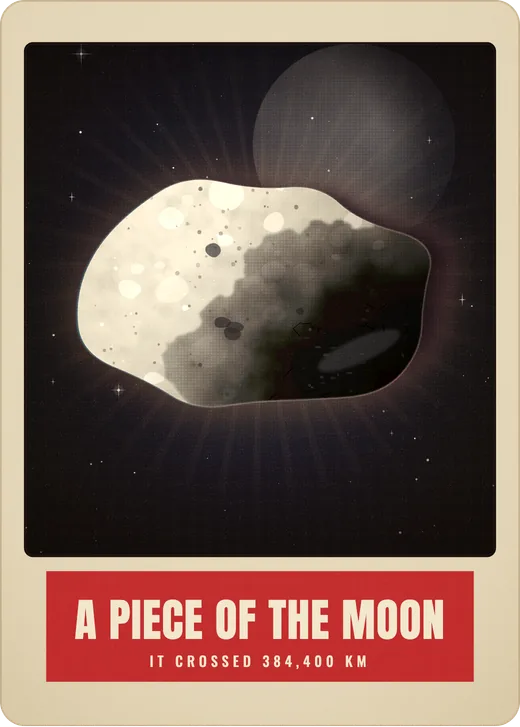
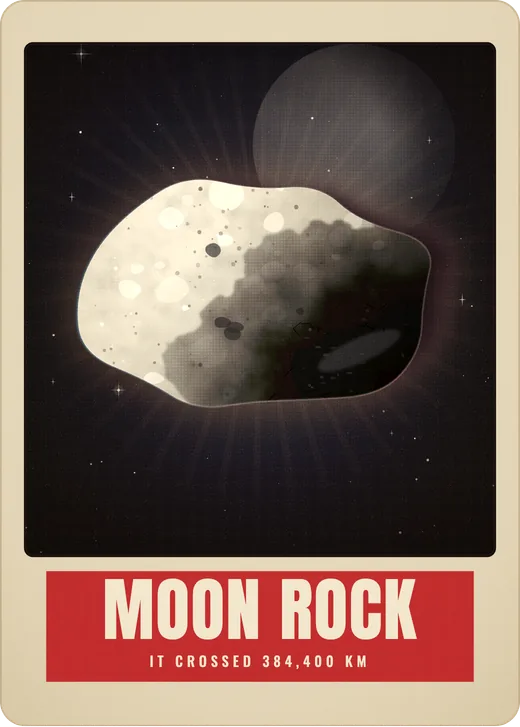
feat(stellar): rarity as a small bold square tag, minimal shorter tiles, guide from common to legendary; Canyon Diablo replaces Sikhote-Alin, the lunar card is Moon Rock
Claude-Session: https://claude.ai/code/session_015FA2dNkdeZuS3qBzySqakS

Changed region(s): [[0.1231, 0.7868, 0.8615, 0.8776]]

diff --git a/src/styles/stellar-pages.css b/src/styles/stellar-pages.css
@@ -305,33 +305,19 @@
 /* Off-screen tiles are not laid out or painted until they come near. */
 .sd-fl__grid > li { content-visibility: auto; contain-intrinsic-size: auto 330px; }
 
-/* A tile: the card lifted on a dark plate, lit from behind by its object's own light,
-   the rarity's metal on the edge; pointed at, it rises and its light comes up. */
+/* A tile: flat and quiet. The number and the rarity above the card, the name and price under it,
+   then one line of what it gives and how many are left. Only the rarity tag carries colour. */
 .sd-tile {
   --tile-glow: #ffd8bc;
-  position: relative; display: flex; flex-direction: column; height: 100%; padding: 14px 14px 16px;
-  border: 1px solid var(--sd-rule); border-radius: 18px; color: inherit; text-decoration: none; overflow: hidden;
-  background:
-    radial-gradient(90% 60% at 50% 30%, color-mix(in srgb, var(--tile-glow) 18%, transparent), transparent 70%),
-    linear-gradient(180deg, rgba(255, 255, 255, 0.035), rgba(255, 255, 255, 0.012) 60%, rgba(0, 0, 0, 0.12));
-  box-shadow: inset 0 1px 0 rgba(255, 246, 220, 0.06), 0 18px 40px -28px rgba(0, 0, 0, 0.9);
-  transition: border-color var(--sd-dur-base) var(--sd-ease), transform var(--sd-dur-base) var(--sd-ease), box-shadow var(--sd-dur-base) var(--sd-ease);
+  position: relative; display: flex; flex-direction: column; height: 100%; padding: 10px 10px 12px;
+  border: 1px solid var(--sd-rule); border-radius: 14px; color: inherit; text-decoration: none; overflow: hidden;
+  background: rgba(255, 255, 255, 0.022);
+  transition: border-color var(--sd-dur-base) var(--sd-ease), background-color var(--sd-dur-base) var(--sd-ease);
 }
-.sd-tile::before {
-  content: ''; position: absolute; inset: 0; pointer-events: none; opacity: 0;
-  background: radial-gradient(70% 55% at 50% 38%, color-mix(in srgb, var(--rarity) 22%, transparent), transparent 72%);
-  transition: opacity var(--sd-dur-slow) var(--sd-ease);
-}
-.sd-tile:hover, .sd-tile:focus-visible {
-  border-color: color-mix(in srgb, var(--rarity) 55%, var(--sd-rule-strong));
-  box-shadow: inset 0 1px 0 rgba(255, 246, 220, 0.1), 0 24px 50px -24px rgba(0, 0, 0, 0.95), 0 0 48px -18px color-mix(in srgb, var(--rarity) 60%, transparent);
-}
-.sd-tile:hover::before, .sd-tile:focus-visible::before { opacity: 1; }
-.sd-tile__stage { position: relative; display: block; padding: 6px 8% 14px; }
-.sd-tile .sd-thumb { transition: transform 500ms var(--sd-ease), translate 300ms var(--sd-ease), scale 300ms var(--sd-ease), box-shadow 300ms var(--sd-ease); }
-@media (hover: hover) {
-  .sd-tile:hover .sd-thumb { translate: 0 -8px; scale: 1.02; box-shadow: 0 0 0 1px color-mix(in srgb, var(--rarity) 45%, rgba(255, 255, 255, 0.1)), 0 30px 44px -18px rgba(0, 0, 0, 0.95), 0 0 40px -10px color-mix(in srgb, var(--rarity) 45%, transparent); }
-}
+.sd-tile:hover, .sd-tile:focus-visible { border-color: color-mix(in srgb, var(--rarity) 45%, var(--sd-rule-strong)); background: rgba(255, 255, 255, 0.04); }
+.sd-tile__stage { position: relative; display: block; padding: 0 5% 10px; }
+.sd-tile .sd-thumb { transition: translate 300ms var(--sd-ease), scale 300ms var(--sd-ease); }
+@media (hover: hover) { .sd-tile:hover .sd-thumb { translate: 0 -4px; } }
 .sd-tile:active .sd-thumb { scale: 0.97; transition-duration: 80ms; }
 .sd-tile__tag {
   position: absolute; top: -2px; left: 50%; z-index: 1; translate: -50% 0; display: inline-flex; align-items: center; gap: 6px;
@@ -339,29 +325,18 @@
   background: rgba(16, 16, 16, 0.9); color: var(--sd-accent-ink); font: 700 12px/1 var(--sd-mono); letter-spacing: 0.1em; text-transform: uppercase; white-space: nowrap;
 }
 .sd-tile__tag::before { content: ''; width: 5px; height: 5px; border-radius: 50%; background: currentColor; }
-.sd-tile__foot { position: relative; display: grid; grid-template-columns: minmax(0, 1fr) auto; align-items: baseline; gap: 6px 12px; margin-top: auto; padding: 10px 4px 0; border-top: 1px solid rgba(241, 230, 207, 0.08); }
-.sd-tile__name { overflow: hidden; text-overflow: ellipsis; white-space: nowrap; font: 500 15px/1.2 var(--sd-spaced); letter-spacing: 0.06em; text-transform: uppercase; }
-.sd-tile__price { font: 700 15px/1 var(--sd-mono); color: var(--sd-ink); font-variant-numeric: tabular-nums; }
-.sd-tile__sub { grid-column: 1 / -1; display: flex; align-items: center; gap: 8px; min-width: 0; overflow: hidden; white-space: nowrap; text-overflow: ellipsis; font-size: 12px; color: var(--sd-ink-3); }
-/* The number and the rarity, one quiet row above the card: the number in the ink's grey, the rarity a slim dark chip in its own colour. */
-.sd-tile__head { position: relative; z-index: 2; display: flex; align-items: center; justify-content: space-between; gap: 8px; margin: 0 2px 10px; pointer-events: none; }
-.sd-tile__num { font: 500 11px var(--sd-mono); letter-spacing: 0.16em; text-transform: uppercase; color: var(--sd-ink-3); }
-.sd-chip {
-  display: inline-flex; align-items: center; gap: 6px; margin-left: auto; padding: 5px 10px 5px 8px; border-radius: 999px;
-  font: 500 11.5px/1 var(--sd-spaced); letter-spacing: 0.14em; text-transform: uppercase; white-space: nowrap; color: var(--rarity);
-  background: linear-gradient(180deg, rgba(255, 246, 225, 0.06), rgba(0, 0, 0, 0.25)), rgba(14, 12, 10, 0.9);
-  border: 1px solid color-mix(in srgb, var(--rarity) 42%, transparent);
-  box-shadow: inset 0 1px 0 rgba(255, 246, 225, 0.08);
-}
-.sd-chip i { font-style: normal; font-size: 10px; line-height: 1; }
-.sd-tile[data-rarity='epic'] .sd-chip, .sd-tile[data-rarity='legendary'] .sd-chip { box-shadow: inset 0 1px 0 rgba(255, 246, 225, 0.1), 0 0 16px -6px color-mix(in srgb, var(--rarity) 80%, transparent); }
-.sd-tile[data-rarity='legendary'] .sd-chip {
-  color: #1a1206; border-color: transparent;
-  background: linear-gradient(180deg, #fbe4a2 0%, var(--rarity) 55%, #c9952f 100%);
-  box-shadow: inset 0 1px 0 rgba(255, 255, 255, 0.6), 0 0 18px -5px color-mix(in srgb, var(--rarity) 85%, transparent);
-}
-.sd-tile__perk { grid-column: 1 / -1; display: inline-flex; align-items: center; gap: 6px; min-width: 0; color: var(--rarity); font: 600 11px var(--sd-mono); letter-spacing: 0.12em; text-transform: uppercase; white-space: nowrap; }
-.sd-tile__perk em { padding: 2px 5px; border-radius: 4px; font: 600 9.5px/1.2 var(--sd-mono); font-style: normal; letter-spacing: 0.12em; color: var(--sd-ink-3); border: 1px solid var(--sd-rule-strong); }
+.sd-tile__head { position: relative; z-index: 2; display: flex; align-items: center; justify-content: space-between; gap: 8px; margin: 0 2px 8px; pointer-events: none; }
+.sd-tile__num { font: 500 10.5px var(--sd-mono); letter-spacing: 0.14em; text-transform: uppercase; color: var(--sd-ink-3); }
+/* The rarity: a small, bold, square-cornered tag filled with its colour. */
+.sd-rtag { display: inline-block; margin-left: auto; padding: 3px 6px 2px; border-radius: 3px; font: 700 10px/1.2 var(--sd-spaced); letter-spacing: 0.12em; text-transform: uppercase; white-space: nowrap; color: #140d08; background: var(--rarity); }
+.sd-tile__foot { position: relative; display: grid; grid-template-columns: minmax(0, 1fr) auto; align-items: baseline; gap: 4px 10px; margin-top: auto; padding: 0 2px; }
+.sd-tile__name { overflow: hidden; text-overflow: ellipsis; white-space: nowrap; font: 500 14px/1.2 var(--sd-spaced); letter-spacing: 0.06em; text-transform: uppercase; }
+.sd-tile__price { font: 700 14px/1 var(--sd-mono); color: var(--sd-ink); font-variant-numeric: tabular-nums; }
+.sd-tile__meta { grid-column: 1 / -1; display: flex; align-items: center; gap: 8px; min-width: 0; overflow: hidden; white-space: nowrap; }
+.sd-tile__perk { display: inline-flex; align-items: center; gap: 5px; flex: none; color: var(--rarity); font: 600 10.5px var(--sd-mono); letter-spacing: 0.1em; text-transform: uppercase; }
+.sd-tile__perk em { padding: 1px 4px; border-radius: 3px; font: 700 9px/1.2 var(--sd-mono); font-style: normal; letter-spacing: 0.1em; color: var(--sd-ink-3); border: 1px solid var(--sd-rule-strong); }
+.sd-tile__sub { display: flex; align-items: center; gap: 8px; min-width: 0; overflow: hidden; text-overflow: ellipsis; font-size: 11.5px; color: var(--sd-ink-3); }
+.sd-tile__sub::before { content: '·'; color: var(--sd-ink-4, var(--sd-ink-3)); }
 
 /* What each rarity gives, under the odds: the tier in its colour, the gift, one short line. */
 .sd-gives { list-style: none; margin: 0 0 18px; padding: 0; display: grid; gap: 10px; }
@@ -370,8 +345,7 @@
   border-radius: 12px; border: 1px solid color-mix(in srgb, var(--rarity) 26%, transparent);
   background: linear-gradient(100deg, color-mix(in srgb, var(--rarity) 10%, transparent), transparent 70%);
 }
-.sd-gives__tier { display: inline-flex; align-items: center; gap: 6px; font: 500 11px var(--sd-spaced); letter-spacing: 0.14em; text-transform: uppercase; color: var(--rarity); }
-.sd-gives__tier i { font-style: normal; font-size: 10px; }
+.sd-gives__tier { justify-self: start; padding: 3px 6px 2px; border-radius: 3px; font: 700 10px/1.2 var(--sd-spaced); letter-spacing: 0.12em; text-transform: uppercase; color: #140d08; background: var(--rarity); }
 .sd-gives__what { display: inline-flex; align-items: center; justify-content: flex-end; gap: 6px; font-weight: 600; font-size: 13.5px; color: var(--sd-ink); text-align: right; }
 .sd-gives__what em { padding: 2px 6px; border-radius: 4px; font: 600 9.5px/1.2 var(--sd-mono); font-style: normal; letter-spacing: 0.1em; text-transform: uppercase; color: var(--sd-ink-3); border: 1px solid var(--sd-rule-strong); white-space: nowrap; }
 .sd-gives__line { grid-column: 1 / -1; font-size: 12.5px; color: var(--sd-ink-3); }
@@ -383,36 +357,29 @@
   background: linear-gradient(120deg, color-mix(in srgb, var(--rarity) 14%, transparent), rgba(255, 255, 255, 0.02) 60%);
   box-shadow: 0 0 36px -18px color-mix(in srgb, var(--rarity) 70%, transparent);
 }
-.sd-perk__tier { display: inline-flex; align-items: center; gap: 6px; padding: 5px 10px 5px 8px; border-radius: 999px; font: 500 11.5px/1 var(--sd-spaced); letter-spacing: 0.14em; text-transform: uppercase; color: var(--rarity);
-  background: rgba(14, 12, 10, 0.9); border: 1px solid color-mix(in srgb, var(--rarity) 42%, transparent); }
-.sd-perk__tier i { font-style: normal; font-size: 10px; }
-.sd-perk[data-rarity='legendary'] .sd-perk__tier { color: #1a1206; border-color: transparent; background: linear-gradient(180deg, #fbe4a2 0%, var(--rarity) 55%, #c9952f 100%); }
+.sd-perk__tier { justify-self: start; padding: 4px 8px 3px; border-radius: 3px; font: 700 11px/1.2 var(--sd-spaced); letter-spacing: 0.12em; text-transform: uppercase; color: #140d08; background: var(--rarity); }
 .sd-perk__short { display: inline-flex; align-items: center; gap: 8px; font: 500 17px/1.1 var(--sd-spaced); letter-spacing: 0.08em; text-transform: uppercase; color: var(--rarity); }
 .sd-perk__short em { padding: 3px 7px; border-radius: 5px; font: 600 10px/1.2 var(--sd-mono); font-style: normal; letter-spacing: 0.1em; color: var(--sd-ink-2); border: 1px solid var(--sd-rule-strong); }
 .sd-perk__line { grid-column: 1 / -1; margin: 0; font-size: 14.5px; line-height: 1.5; color: var(--sd-ink-2, var(--sd-ink)); }
 
-/* Scarcity on the shelf: the hotter the card, the warmer its frame. Common
-   stays quiet; the edge, the price and (for legendary) a slow pass of foil
-   all read from --rarity, set once by data-rarity on the tile. */
-.sd-tile:not([data-rarity='common']) { border-color: var(--rarity-edge); }
+/* Scarcity on the shelf: the price of the scarcest takes the rarity's colour, and a legendary gets a slow pass of foil. */
 .sd-tile[data-rarity='epic'] .sd-tile__price, .sd-tile[data-rarity='legendary'] .sd-tile__price { color: var(--rarity); }
 /* The pass of foil is a sheet three tiles wide slid across, clipped a little outside the stage so the lifted card still shows. */
-.sd-tile[data-rarity='legendary'] .sd-tile__stage, .sd-tile[data-rarity='epic'] .sd-tile__stage { overflow: clip; overflow-clip-margin: 8px; }
-.sd-tile[data-rarity='legendary'] .sd-tile__stage::after, .sd-tile[data-rarity='epic'] .sd-tile__stage::after {
+.sd-tile[data-rarity='legendary'] .sd-tile__stage { overflow: clip; overflow-clip-margin: 8px; }
+.sd-tile[data-rarity='legendary'] .sd-tile__stage::after {
   content: ''; position: absolute; inset: 0 auto 0 0; width: 300%; pointer-events: none; mix-blend-mode: screen;
   background: linear-gradient(105deg, transparent 42%, color-mix(in srgb, var(--rarity) 26%, transparent) 50%, transparent 58%);
   translate: -86.67% 0;
 }
 @media (prefers-reduced-motion: no-preference) {
   li.is-view > .sd-tile[data-rarity='legendary'] .sd-tile__stage::after { animation: sd-foil-pass 9s var(--sd-ease-inout) infinite; will-change: translate; }
-  li.is-view > .sd-tile[data-rarity='epic'] .sd-tile__stage::after { animation: sd-foil-pass 13s var(--sd-ease-inout) 4s infinite; will-change: translate; }
 }
 @keyframes sd-foil-pass {
   0%, 72% { translate: -86.67% 0; }
   100% { translate: 20% 0; }
 }
 @media (max-width: 559px) {
-  .sd-tile { padding: 12px 12px 12px; }
+  .sd-tile { padding: 8px 8px 10px; }
   .sd-tile__name { font-size: 13px; }
   .sd-tile__price { font-size: 14px; }
 }

diff --git a/src/lib/stellar/perks.ts b/src/lib/stellar/perks.ts
@@ -33,8 +33,10 @@ export function votePower(designation: string, rarity: Rarity): number {
 }
 
 export type Perk = {
-  /** A few words, for a tile or a list: "30-min session". */
+  /** A few words, for a list or the card page: "30-min session". */
   short: string;
+  /** Fewer still, for a shelf tile: "Session". */
+  tile: string;
   /** What it is, in one sentence. */
   line: string;
   /** Not open yet: the telescope perks wait for Live Telescope V1, which is commissioning. */
@@ -44,22 +46,22 @@ export type Perk = {
 export function perkFor(designation: string, rarity: Rarity): Perk {
   switch (rarity) {
     case 'legendary':
-      return { short: 'Real specimen', line: 'Carries a real piece of the meteorite it shows, sent to its holder.', soon: false };
+      return { short: 'Real specimen', tile: 'Real specimen', line: 'Carries a real piece of the meteorite it shows, sent to its holder.', soon: false };
     case 'epic':
-      return { short: `${SESSION_MINUTES}-min session`, line: `Each edition is a ${SESSION_MINUTES}-minute session on Live Telescope V1.`, soon: true };
+      return { short: `${SESSION_MINUTES}-min session`, tile: 'Session', line: `Each edition is a ${SESSION_MINUTES}-minute session on Live Telescope V1.`, soon: true };
     case 'rare':
-      return { short: 'Visitor seat', line: 'Each edition enters the draw for a visitor’s seat at a live session.', soon: true };
+      return { short: 'Visitor seat', tile: 'Visitor seat', line: 'Each edition enters the draw for a visitor’s seat at a live session.', soon: true };
     default: {
       const v = votePower(designation, rarity);
-      return { short: `Vote ×${v}`, line: `Each edition adds ${v} to its holder’s vote on the night’s target.`, soon: false };
+      return { short: `Vote ×${v}`, tile: `Vote ×${v}`, line: `Each edition adds ${v} to its holder’s vote on the night’s target.`, soon: false };
     }
   }
 }
 
-/** What each tier gives, for the guide under the odds, scarcest first. */
+/** What each tier gives, for the guide under the odds, from common up to legendary. */
 export const TIER_PERKS: { rarity: Rarity; title: string; line: string; soon: boolean }[] = [
-  { rarity: 'legendary', title: 'Real meteorite', line: 'The stone itself, sent to you.', soon: false },
-  { rarity: 'epic', title: `${SESSION_MINUTES}-min session`, line: 'Your time on the telescope.', soon: true },
-  { rarity: 'rare', title: 'Visitor seat', line: 'A draw to watch a live session.', soon: true },
   { rarity: 'common', title: 'Nightly vote', line: 'Pick the night’s target, ×1 to ×3.', soon: false },
+  { rarity: 'rare', title: 'Visitor seat', line: 'A draw to watch a live session.', soon: true },
+  { rarity: 'epic', title: `${SESSION_MINUTES}-min session`, line: 'Your time on the telescope.', soon: true },
+  { rarity: 'legendary', title: 'Real meteorite', line: 'The stone itself, sent to you.', soon: false },
 ];

diff --git a/src/lib/stellar/poster.ts b/src/lib/stellar/poster.ts
@@ -44,7 +44,7 @@ const ROWS: Record<string, Row> = {
   PERSEIDS: ['PERSEIDS', 'Tears of St Lawrence', 'Lie back on a warm night and count them.', 'A hundred an hour', 'Dust from Comet Swift–Tuttle, burning at 59 km a second'],
   'FIRST-LIGHT': ['FIRST\nLIGHT', 'The shutter opens', 'Whatever the sky gives, you hold.', 'Frame number one', 'One night, one exposure, one image for every holder'],
   IMILAC: ['IMILAC', 'Heart of a broken world', 'Found in the driest desert on Earth, 1822.', 'Green crystal set in iron', 'As old as the Solar System'],
-  'LUNAR-FRAGMENT': ['A PIECE OF\nTHE MOON', 'Thrown across the dark', 'An impact up there. A landing down here.', 'It crossed 384,400 km', 'It left the Moon faster than 2.4 km a second'],
+  'LUNAR-FRAGMENT': ['MOON ROCK', 'Thrown across the dark', 'An impact up there. A landing down here.', 'It crossed 384,400 km', 'It left the Moon faster than 2.4 km a second'],
   TYCHO: ['TYCHO', 'The bright scar', 'One strike, and the Moon wore rays forever.', 'Eighty-five kilometres wide', 'Struck 108 million years ago, still the brightest mark'],
   SUN: ['THE SUN', 'The star we live beside', 'Its light takes eight minutes to reach you.', 'Halfway through its life', 'Four million tonnes of itself burned every second'],
   MERCURY: ['MERCURY', 'The scorched messenger', 'A year shorter than its own day.', 'The smallest planet', 'From 430 °C at noon to −180 °C by night'],
@@ -118,7 +118,7 @@ const ROWS: Record<string, Row> = {
   'DOUBLE-OPPOSITION': ['DOUBLE\nOPPOSITION', 'Two worlds, one week', 'Jupiter, then Mars, at their closest to Earth.', 'Eight days apart', 'The next pair is years away'],
   'SNOW-MOON-ECLIPSE': ['SNOW MOON\nECLIPSE', 'February’s full Moon', 'It slips into the faint edge of Earth’s shadow.', 'One limb goes dusky', 'Subtle: you have to look for it'],
   'GREAT-ECLIPSE': ['GREAT\nECLIPSE', 'The long shadow', 'Stars will come out at noon.', 'Over six minutes of dark', 'Its path runs from Spain to Arabia'],
-  'SIKHOTE-ALIN': ['SIKHOTE-ALIN', 'The great iron rain', 'In 1947 it fell in daylight, brighter than the Sun.', 'Witnessed as it fell', 'About 23 tonnes were gathered from the taiga'],
+  'CANYON-DIABLO': ['CANYON DIABLO', 'The crater maker', 'It hit Arizona and left a hole over a kilometre wide.', 'It dated the Earth', 'Its lead gave the age of the Earth: 4.55 billion years'],
   GIBEON: ['GIBEON', 'Crystal in the iron', 'No forge can make this pattern; only slow cooling can.', 'Crystals grown in space', 'Its pieces lie across a strewn field in Namibia'],
   'CAMPO-DEL-CIELO': ['CAMPO DEL CIELO', 'Field of the sky', 'Thousands of years ago, iron rained on the Chaco.', 'A shower of iron', 'Its largest pieces weigh around thirty tonnes'],
   MUONIONALUSTA: ['MUONIONALUSTA', 'The ancient iron', 'It lay under the ice through several ice ages.', 'Older than the Earth', 'Found in Swedish Lapland in 1906'],

diff --git a/src/lib/stellar/plate.ts b/src/lib/stellar/plate.ts
@@ -53,7 +53,7 @@ const STORY: Record<string, [string, string]> = {
   'DOUBLE-OPPOSITION': ['Opposition puts the Earth between a planet and the Sun.', 'Mars looks red, Jupiter cream-white.'],
   'SNOW-MOON-ECLIPSE': ['A penumbral eclipse: the Moon misses the dark core.', 'It needs no filter and no telescope.'],
   'GREAT-ECLIPSE': ['Along the path, birds roost and the air turns cold.', 'Its shadow races over the ground faster than sound.'],
-  'SIKHOTE-ALIN': ['It broke apart over the Russian Far East.', 'Its pieces still carry thumbprints from melting.'],
+  'CANYON-DIABLO': ['It struck about fifty thousand years ago.', 'Its lead was used to measure the age of the Earth.'],
   GIBEON: ['The Nama people made tools from its iron.', 'Etched with acid, it shows the Widmanstätten pattern.'],
   'CAMPO-DEL-CIELO': ['It fell four to five thousand years ago.', 'It left a field of small craters in Argentina.'],
   MUONIONALUSTA: ['It fell in northern Sweden about a million years ago.', 'Its crystals show it cooled inside a small world.'],
@@ -160,7 +160,7 @@ export function plateFor(designation: string): Plate | null {
 /** Each object's own light, for the glow a tile sits on. Where an object has none — a crater, a stone — the family's stands in. */
 const GLOW: Record<string, string> = {
   'FIRST-LIGHT': '#e8e2d4', IMILAC: '#d9b26f', 'LUNAR-FRAGMENT': '#c9d6ff',
-  'SIKHOTE-ALIN': '#e0a070', GIBEON: '#dfe6f0', 'CAMPO-DEL-CIELO': '#c8ccd4', MUONIONALUSTA: '#e8d6d0', ALLENDE: '#b9b2a6', TYCHO: '#bacbff', 'OLYMPUS-MONS': '#ff9a63',
+  'CANYON-DIABLO': '#c98a6a', GIBEON: '#dfe6f0', 'CAMPO-DEL-CIELO': '#c8ccd4', MUONIONALUSTA: '#e8d6d0', ALLENDE: '#b9b2a6', TYCHO: '#bacbff', 'OLYMPUS-MONS': '#ff9a63',
   JUPITER: '#ffbd8a', EUROPA: '#d8ecff', SATURN: '#ffe3a3', HALLEY: '#7fc8ff', 'VOYAGER-1': '#bfc8d8',
   M45: '#6fb6ff', M42: '#ff9ec7', M1: '#9fd0ff', 'SGR-A': '#ff8a2a', M31: '#b8c6ff',
   ORIONIDS: '#9fcaff', 'HUNTERS-MOON': '#ffd79a', 'PLEIADES-OCCULTATION': '#c9d6ff', GEMINIDS: '#a9c4ff',

diff --git a/src/lib/sets/set-001.ts b/src/lib/sets/set-001.ts
@@ -64,7 +64,7 @@ const FIRST_24: AuthoredCard[] = [
   ),
   authorKept(
     {
-      designation: 'LUNAR-FRAGMENT', name: 'A Piece of the Moon', objectType: 'lunar meteorite', rarity: 'legendary',
+      designation: 'LUNAR-FRAGMENT', name: 'Moon Rock', objectType: 'lunar meteorite', rarity: 'legendary',
       catalogRef: 'Fallen to Earth',
       blurb: 'Found in a desert, matched to Apollo samples by its chemistry.',
     },
@@ -268,12 +268,12 @@ const FIRST_24: AuthoredCard[] = [
 const SPECIMENS: AuthoredCard[] = [
   authorKept(
     {
-      designation: 'SIKHOTE-ALIN', name: 'Sikhote-Alin', objectType: 'iron meteorite', rarity: 'legendary',
-      catalogRef: 'Primorye, Russia, 1947',
-      blurb: 'It fell in daylight in 1947, brighter than the Sun.',
+      designation: 'CANYON-DIABLO', name: 'Canyon Diablo', objectType: 'iron meteorite', rarity: 'legendary',
+      catalogRef: 'Meteor Crater, Arizona',
+      blurb: 'The iron that dug Meteor Crater, 1.2 km across.',
     },
     SPECIMEN,
-    { stats: [['TYPE', 'Iron, IIAB'], ['FELL', '12 Feb 1947'], ['SPECIMEN', '6 g']], line: 'It fell in daylight in 1947, brighter than the Sun.', physical: true },
+    { stats: [['TYPE', 'Iron, IAB'], ['FELL', '~50,000 yr ago'], ['SPECIMEN', '81 g']], line: 'The iron that dug Meteor Crater, 1.2 km across.', physical: true },
   ),
   authorKept(
     {
@@ -334,7 +334,7 @@ const ORDER = [
   // The Rare Sights
   'TOTAL-ECLIPSE', 'RING-OF-FIRE', 'BLOOD-MOON', 'AURORA', 'VENUS-TRANSIT', 'HALE-BOPP', 'LEONIDS', 'PERSEIDS',
   // The Specimens, after the first ninety-two so every object card keeps its number
-  'SIKHOTE-ALIN', 'GIBEON', 'CAMPO-DEL-CIELO', 'MUONIONALUSTA', 'ALLENDE',
+  'CANYON-DIABLO', 'GIBEON', 'CAMPO-DEL-CIELO', 'MUONIONALUSTA', 'ALLENDE',
   // The Almanac
   'ORIONIDS', 'HUNTERS-MOON', 'PLEIADES-OCCULTATION', 'GEMINIDS', 'CHRISTMAS-SUPERMOON', 'DOUBLE-OPPOSITION',
   'SNOW-MOON-ECLIPSE', 'GREAT-ECLIPSE',

diff --git a/src/components/stellar/ShopCard.tsx b/src/components/stellar/ShopCard.tsx
@@ -34,10 +34,7 @@ export default function ShopCard({ designation, name, rarity, sub, price, tag }:
     >
       <span className="sd-tile__head" aria-hidden="true">
         {num && <span className="sd-tile__num">No. {num}</span>}
-        <span className="sd-chip">
-          <i>{rarityInfo(rarity).glyph}</i>
-          {rarityInfo(rarity).label}
-        </span>
+        <span className="sd-rtag">{rarityInfo(rarity).label}</span>
       </span>
       <span className="sd-tile__stage">
         <CardThumb designation={designation} />
@@ -46,10 +43,12 @@ export default function ShopCard({ designation, name, rarity, sub, price, tag }:
       <span className="sd-tile__foot">
         <span className="sd-tile__name">{name}</span>
         <span className="sd-tile__price">{price}</span>
-        <span className="sd-tile__sub">{sub}</span>
-        <span className="sd-tile__perk">
-          {perk.short}
-          {perk.soon && <em>Soon</em>}
+        <span className="sd-tile__meta">
+          <span className="sd-tile__perk">
+            {perk.tile}
+            {perk.soon && <em>Soon</em>}
+          </span>
+          <span className="sd-tile__sub">{sub}</span>
         </span>
       </span>
     </Link>

diff --git a/src/components/stellar/card/CardBack.tsx b/src/components/stellar/card/CardBack.tsx
@@ -31,7 +31,7 @@ const LEDGER = { y: 594, h: 94 };
 const BOX = { x: 30, y: 702, w: 570, h: 116 };
 
 /** Planets, moons and the Sun: the whole disc shown on black, never cropped by the window. */
-const WHOLE = new Set(['SIKHOTE-ALIN', 'GIBEON', 'CAMPO-DEL-CIELO', 'MUONIONALUSTA', 'ALLENDE', 'EARTH', 'MOON', 'SUN', 'MERCURY', 'VENUS', 'MARS', 'JUPITER', 'IO', 'EUROPA', 'GANYMEDE', 'SATURN', 'TITAN', 'ENCELADUS', 'URANUS', 'NEPTUNE', 'PLUTO', 'BLOOD-MOON', 'HUNTERS-MOON', 'CHRISTMAS-SUPERMOON', 'DOUBLE-OPPOSITION', 'SNOW-MOON-ECLIPSE']);
+const WHOLE = new Set(['CANYON-DIABLO', 'GIBEON', 'CAMPO-DEL-CIELO', 'MUONIONALUSTA', 'ALLENDE', 'EARTH', 'MOON', 'SUN', 'MERCURY', 'VENUS', 'MARS', 'JUPITER', 'IO', 'EUROPA', 'GANYMEDE', 'SATURN', 'TITAN', 'ENCELADUS', 'URANUS', 'NEPTUNE', 'PLUTO', 'BLOOD-MOON', 'HUNTERS-MOON', 'CHRISTMAS-SUPERMOON', 'DOUBLE-OPPOSITION', 'SNOW-MOON-ECLIPSE']);
 
 /** A figure split into its number, set large, and its unit, set small after it: "3,475" and "KM". */
 function splitFigure(value: string): [string, string] {

diff --git a/src/app/card/[designation]/page.tsx b/src/app/card/[designation]/page.tsx
@@ -112,10 +112,7 @@ export default async function CardPage({ params }: { params: Promise<{ designati
             {/* The card beside it carries the epithet, quote and headline; the page adds what the card does not say. */}
             <p className="sd-cardhero__line">{record.line}</p>
             <div className="sd-perk" data-rarity={rarity}>
-              <span className="sd-perk__tier">
-                <i aria-hidden="true">{rarityInfo(rarity).glyph}</i>
-                {rarityInfo(rarity).label}
-              </span>
+              <span className="sd-perk__tier">{rarityInfo(rarity).label}</span>
               <span className="sd-perk__short">
                 {perk.short}
                 {perk.soon && <em>Coming soon</em>}

diff --git a/src/test/stellar-set-001.test.ts b/src/test/stellar-set-001.test.ts
@@ -130,7 +130,7 @@ describe('First Light', () => {
       expect(other, `${c.seed.designation} pairs with ${p}`).toBeDefined();
       expect(other!.record.pairsWith).toBe(c.seed.designation);
     }
-    expect(SET_001_CARDS.filter((c) => c.record.physical).map((c) => c.seed.designation)).toEqual(['IMILAC', 'LUNAR-FRAGMENT', 'SIKHOTE-ALIN', 'GIBEON', 'CAMPO-DEL-CIELO', 'MUONIONALUSTA', 'ALLENDE']);
+    expect(SET_001_CARDS.filter((c) => c.record.physical).map((c) => c.seed.designation)).toEqual(['IMILAC', 'LUNAR-FRAGMENT', 'CANYON-DIABLO', 'GIBEON', 'CAMPO-DEL-CIELO', 'MUONIONALUSTA', 'ALLENDE']);
   });
 
   it('prints three figures and a line on every card, in the logbook’s voice', () => {

diff --git a/src/components/stellar/CapsuleCounter.tsx b/src/components/stellar/CapsuleCounter.tsx
@@ -165,10 +165,7 @@ export default function CapsuleCounter({ cards, onSale }: { cards: TierCard[]; o
       <ul className="sd-gives">
         {TIER_PERKS.map((t) => (
           <li key={t.rarity} data-rarity={t.rarity}>
-            <span className="sd-gives__tier">
-              <i aria-hidden="true">{rarityInfo(t.rarity).glyph}</i>
-              {rarityInfo(t.rarity).label}
-            </span>
+            <span className="sd-gives__tier">{rarityInfo(t.rarity).label}</span>
             <span className="sd-gives__what">
               {t.title}
               {t.soon && <em>Coming soon</em>}

diff --git a/src/lib/stellar/economics.ts b/src/lib/stellar/economics.ts
@@ -73,7 +73,7 @@ export const DIRECT_CARD_PRICE_USD: Record<Rarity, number> = {
 export const SPECIMEN_PRICE_USD: Record<string, number> = {
   IMILAC: 125, // 4.6 g pallasite (FossilEra, 4.55 g)
   'LUNAR-FRAGMENT': 575, // 8.5 g lunar slice (FossilEra, Oued el Hamim 001, 8.47 g)
-  'SIKHOTE-ALIN': 42, // 6 g individual (FossilEra, 5.99 g)
+  'CANYON-DIABLO': 57, // 81 g individual (Meteorite Market, CD80-6, 80.6 g)
   GIBEON: 42, // 7.7 g piece (FossilEra, 7.69 g)
   'CAMPO-DEL-CIELO': 43, // 15 g specimen with certificate
   MUONIONALUSTA: 129, // 46 g etched slice (Galactic Stone)

diff --git a/src/components/stellar/CardThumb.tsx b/src/components/stellar/CardThumb.tsx
@@ -17,7 +17,7 @@ export default function CardThumb({ designation, eager = false }: { designation:
   return (
     <span className="sd-thumb">
       <img
-        src={`${plate.art}/card.webp?v=poster10`}
+        src={`${plate.art}/card.webp?v=poster11`}
         alt=""
         width={520}
         height={726}
